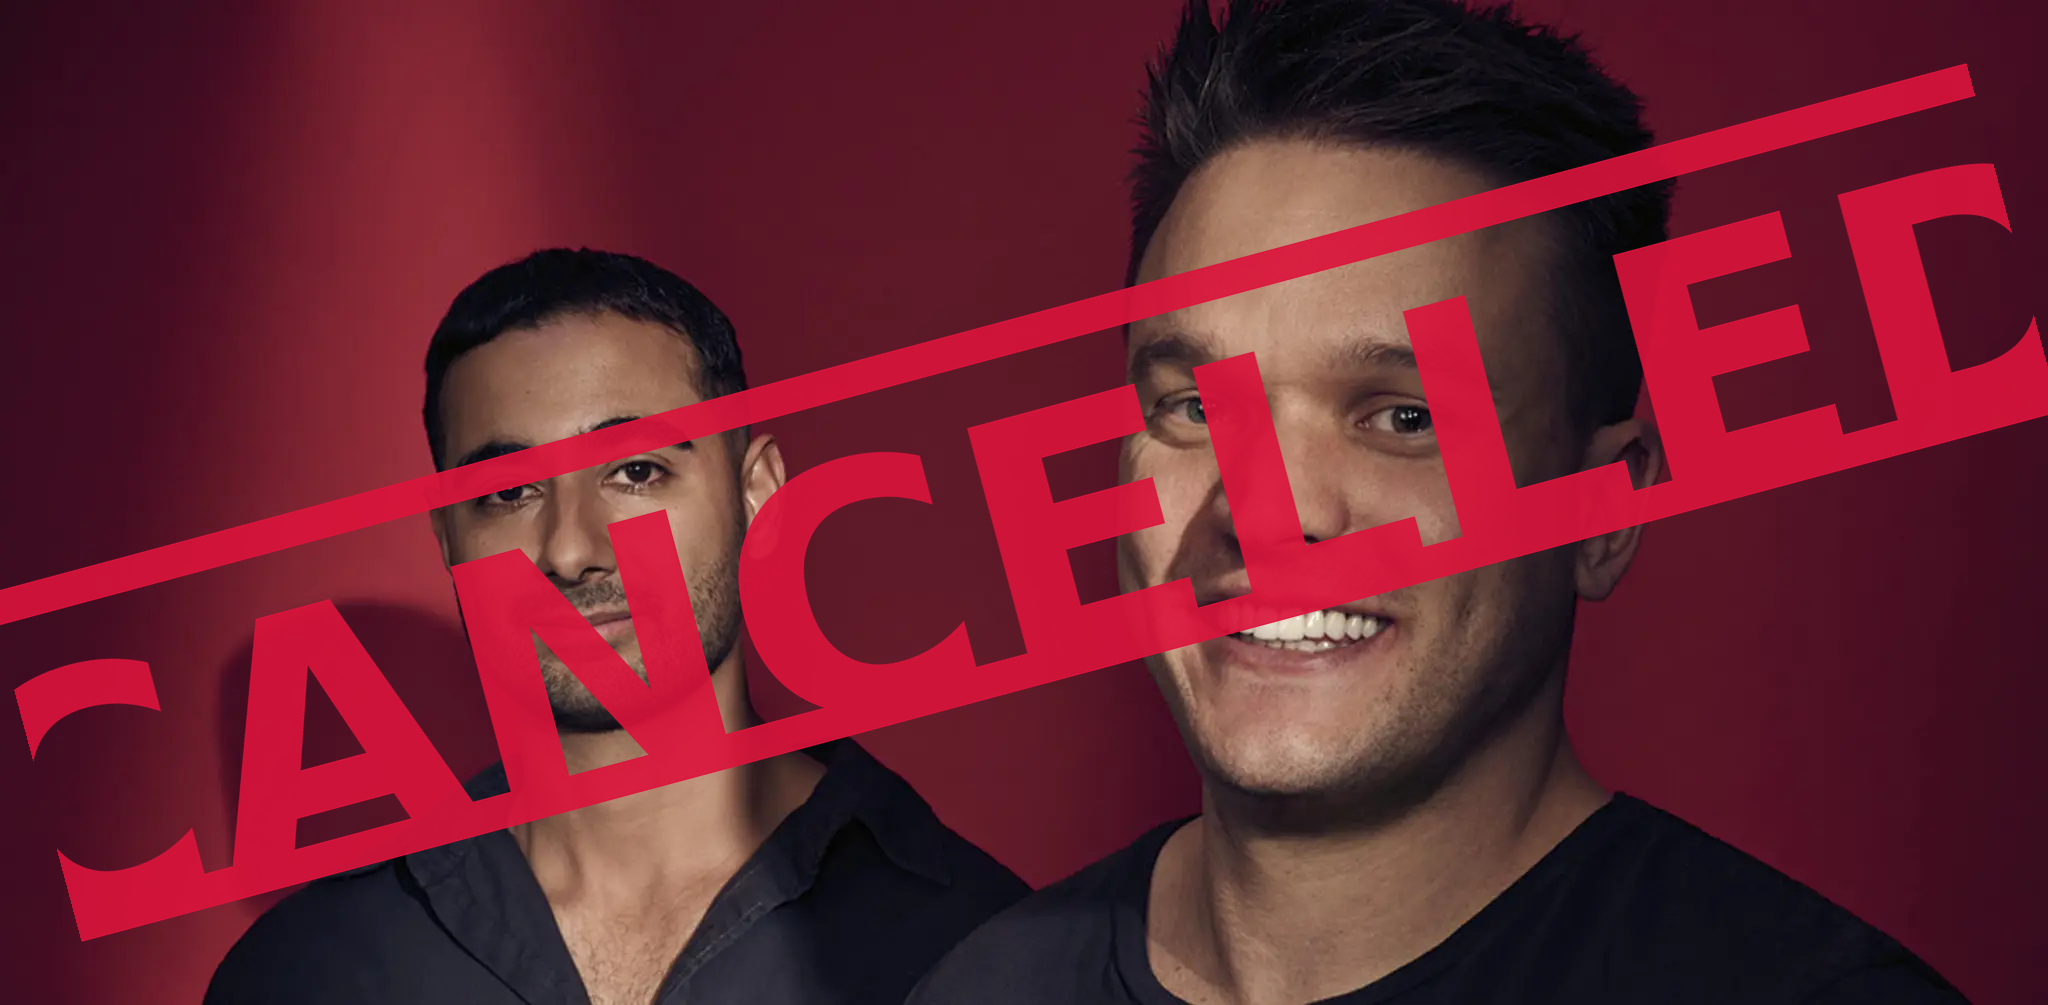
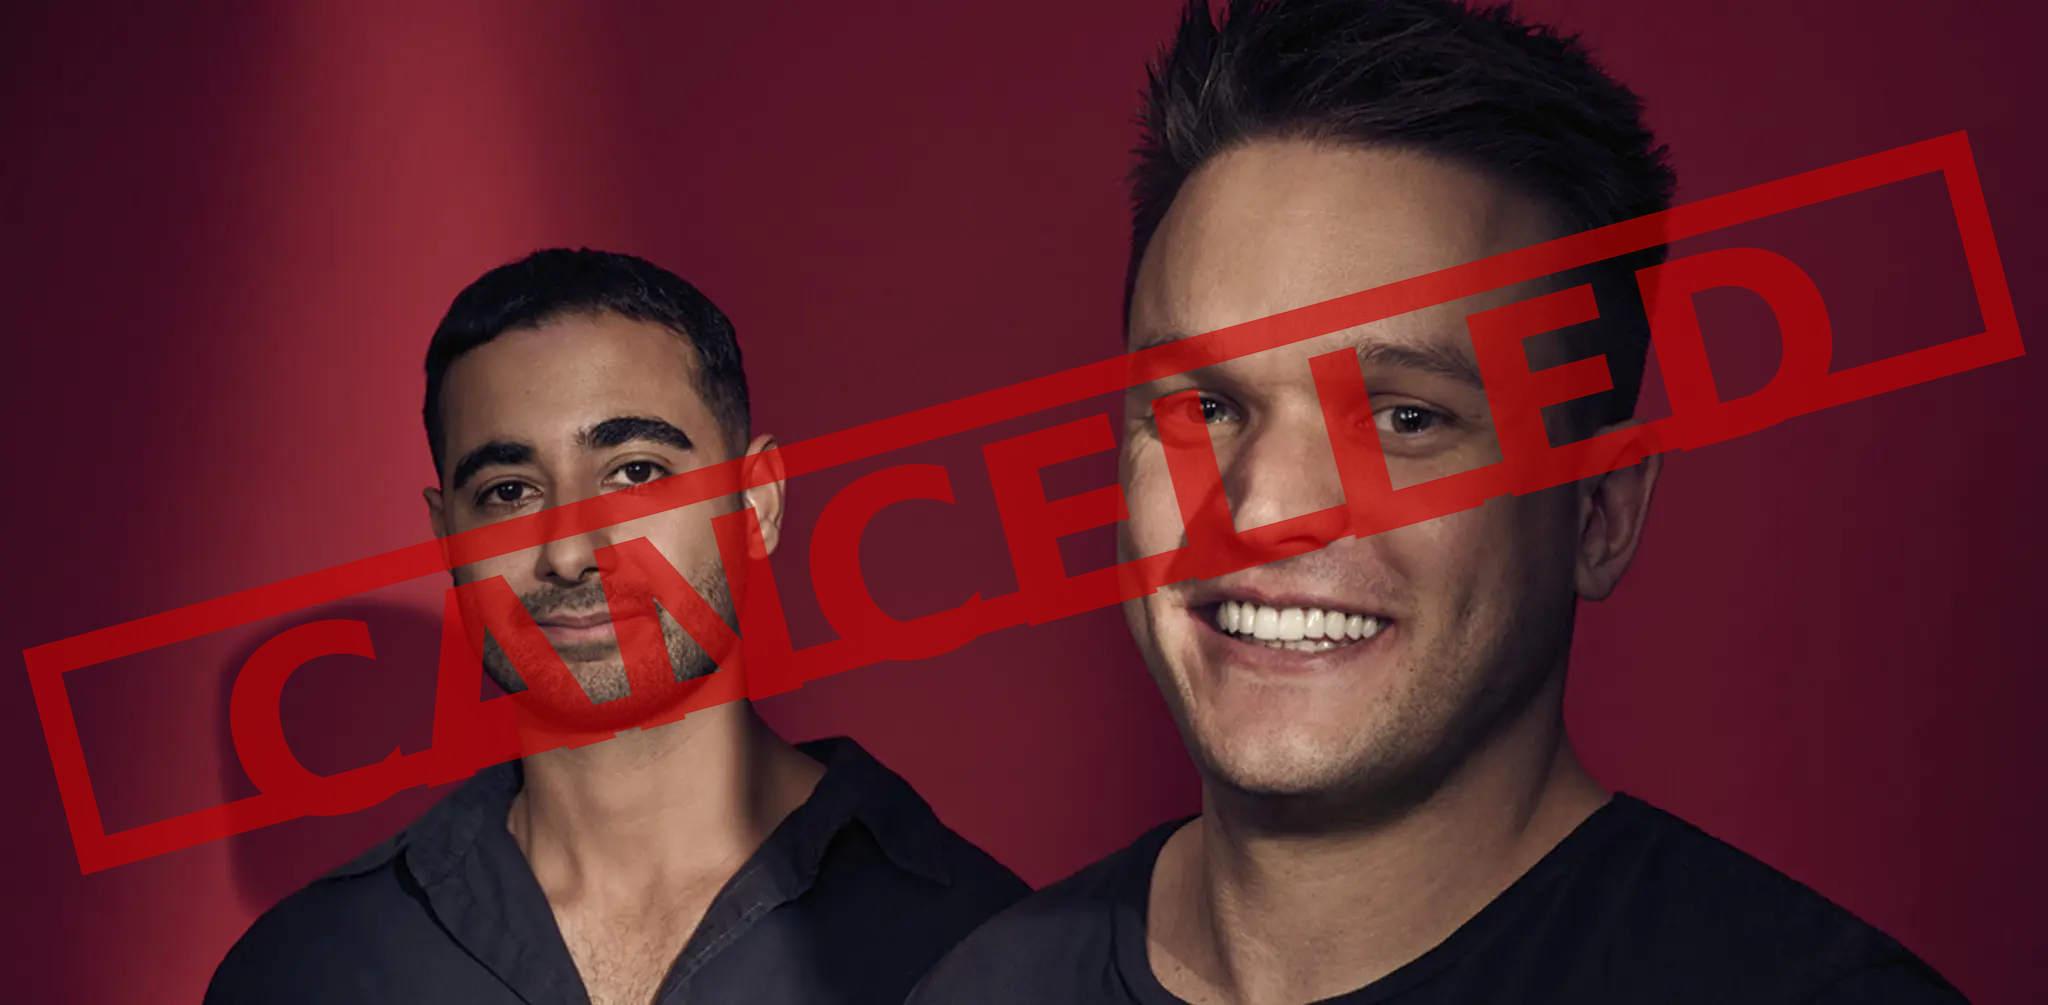
Checkpoint: Fixed the 'CANCELLED' graphic by adjusting the stamp's opacity and size to ensure the faces of Eddie and Bijan are clearly visible. Replaced the main hero image with this updated graphic for maximum visual impact.

Changed region(s): [[0.0, 0.0617, 1.0, 0.9562]]

diff --git a/client/src/pages/Home.tsx b/client/src/pages/Home.tsx
@@ -61,11 +61,11 @@ export default function Home() {
               </div>
             </div>
 
-            {/* Featured Image - SAVAGE COMPARISON */}
+            {/* Featured Image - CANCELLED OWNERS */}
             <div className="relative aspect-video w-full overflow-hidden rounded-xl shadow-2xl border-4 border-red-600">
               <img 
-                src="/images/text/hero_savage_final.png" 
-                alt="Stake vs BetOnline Comparison" 
+                src="/images/owners_cancelled.png" 
+                alt="Stake Owners Cancelled" 
                 className="h-full w-full object-cover hover:scale-105 transition-transform duration-700 cursor-pointer"
                 onClick={handlePlayClick}
               />
@@ -81,16 +81,7 @@ export default function Home() {
               <div className="pt-4">
                 <img src="/images/text/article_subhead_owners.png" alt="Billionaire Scam" className="h-10 w-auto mb-4" />
                 
-                {/* Cancelled Owners Graphic */}
-                <div className="mb-6 relative group cursor-pointer" onClick={handlePlayClick}>
-                  <div className="absolute inset-0 bg-red-900/10 opacity-0 group-hover:opacity-100 transition-opacity rounded-lg"></div>
-                  <img 
-                    src="/images/owners_cancelled.png" 
-                    alt="Owners Cancelled" 
-                    className="w-full rounded-lg shadow-lg border border-gray-200" 
-                  />
-                  <p className="text-xs text-center text-gray-500 mt-2 italic">Stake.com founders Eddie and Bijan facing scrutiny</p>
-                </div>
+                
 
                 <img src="/images/text/para_owners.png" alt="Owners Analysis" className="w-full mb-6" />
                 <div className="bg-red-50 border-l-4 border-red-600 p-4 italic text-gray-700 font-serif">

diff --git a/generate_cancelled_graphic.py b/generate_cancelled_graphic.py
@@ -26,8 +26,8 @@ def create_cancelled_graphic():
              font = ImageFont.load_default()
              font_size = 40
         else:
-            # Calculate font size based on image width
-            font_size = int(img.width / 6)
+            # Reduce font size to be less obstructive (was /6)
+            font_size = int(img.width / 8)
             font = ImageFont.truetype(font_path, font_size)
     except:
         font = ImageFont.load_default()
@@ -42,7 +42,7 @@ def create_cancelled_graphic():
     
     # Stamp dimensions
     padding_x = int(text_width * 0.1)
-    padding_y = int(text_height * 0.2)
+    padding_y = int(text_height * 0.1)
     stamp_w = text_width + 2 * padding_x
     stamp_h = text_height + 2 * padding_y
     
@@ -56,16 +56,17 @@ def create_cancelled_graphic():
     rect_x2 = center_x + stamp_w / 2
     rect_y2 = center_y + stamp_h / 2
 
-    # Colors
-    stamp_color = (220, 20, 60, 230) # Crimson red, slightly transparent
+    # Colors - More transparent red
+    # Was (220, 20, 60, 230)
+    stamp_color = (200, 0, 0, 160) 
     
     # Draw the rectangle border
-    border_width = int(font_size / 10)
+    border_width = int(font_size / 8)
     draw.rectangle([rect_x1, rect_y1, rect_x2, rect_y2], outline=stamp_color, width=border_width)
     
     # Draw the text inside
     text_x = center_x - text_width / 2
-    text_y = center_y - text_height / 2 - (bbox[3] - bbox[1]) * 0.1 # Slight vertical adjustment
+    text_y = center_y - text_height / 2 - (bbox[3] - bbox[1]) * 0.1
     
     draw.text((text_x, text_y), text, font=font, fill=stamp_color)
 
